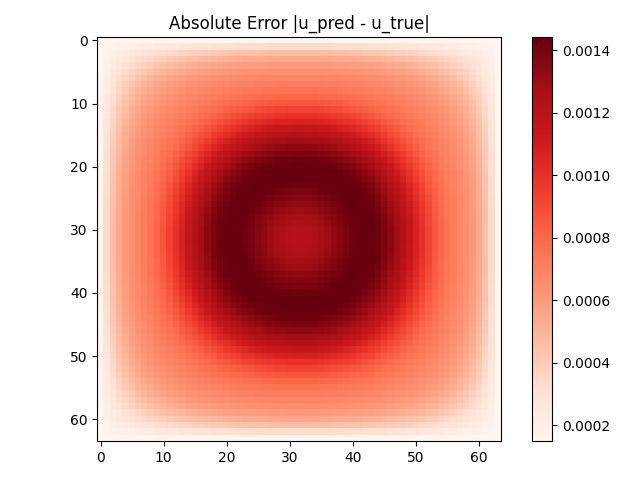
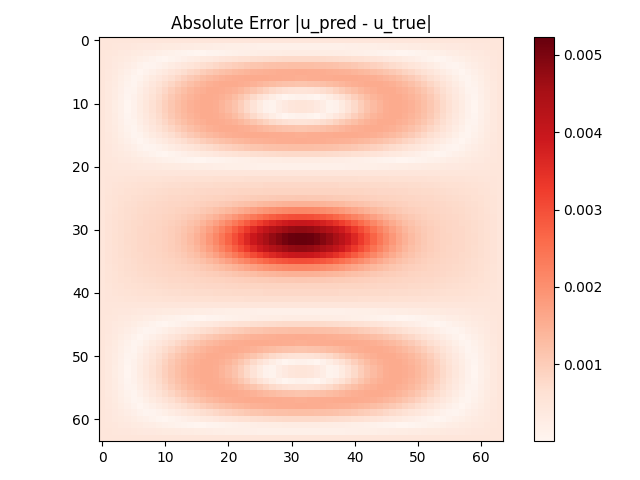
Updated m,n files

diff --git a/fno_dataset.py b/fno_dataset.py
@@ -2,7 +2,7 @@ import tensorflow as tf
 import numpy as np
 import matplotlib.pyplot as plt
 
-def generate_data(n_samples=1000, size=64):
+def generate_data(n_samples=1000, size=64, m_max=5, n_max=5):
     x = np.linspace(0, 1, size)
     y = np.linspace(0, 1, size)
     X, Y = np.meshgrid(x, y)
@@ -10,7 +10,9 @@ def generate_data(n_samples=1000, size=64):
     f_list, u_list = [], []
 
     for _ in range(n_samples):
-        m, n = (1, 1)
+        m = np.random.randint(1, m_max + 1)
+        n = np.random.randint(1, n_max + 1)
+
         f = np.sin(m * np.pi * X) * np.sin(n * np.pi * Y)
         u = f / (np.pi**2 * (m**2 + n**2))  # Exact Poisson solution
 

diff --git a/fno_main_file.py b/fno_main_file.py
@@ -39,7 +39,7 @@ model.compile(optimizer='adam', loss='mse')
 
 # ============ Training ============
 batch_size = 20
-epochs = 100
+epochs = 10
 train_losses = []
 
 for epoch in range(epochs):
